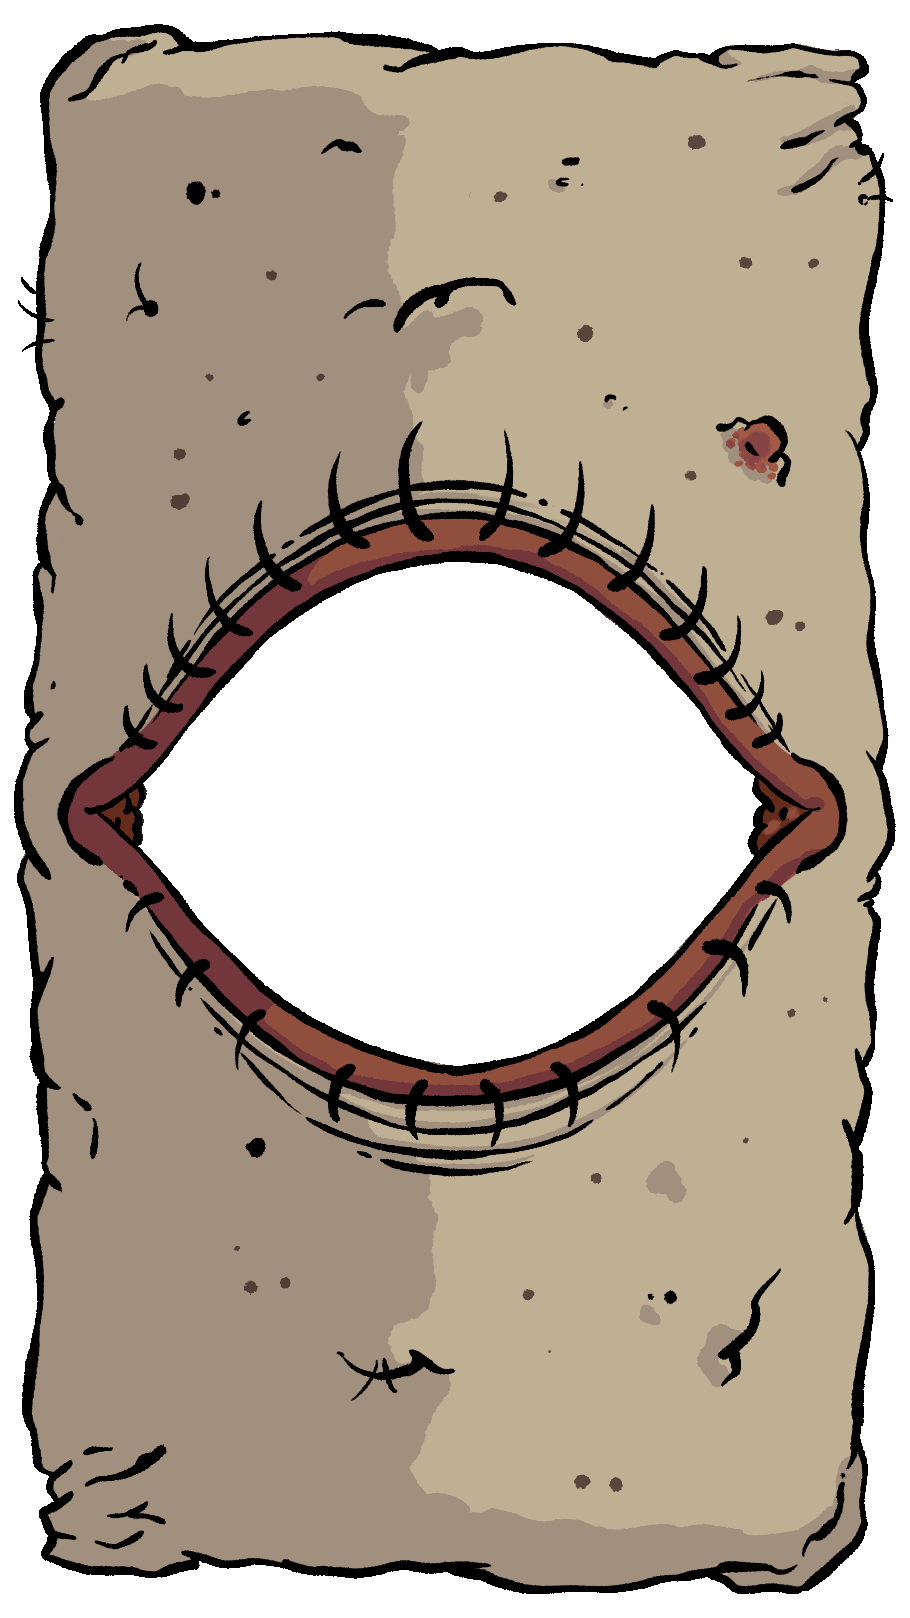
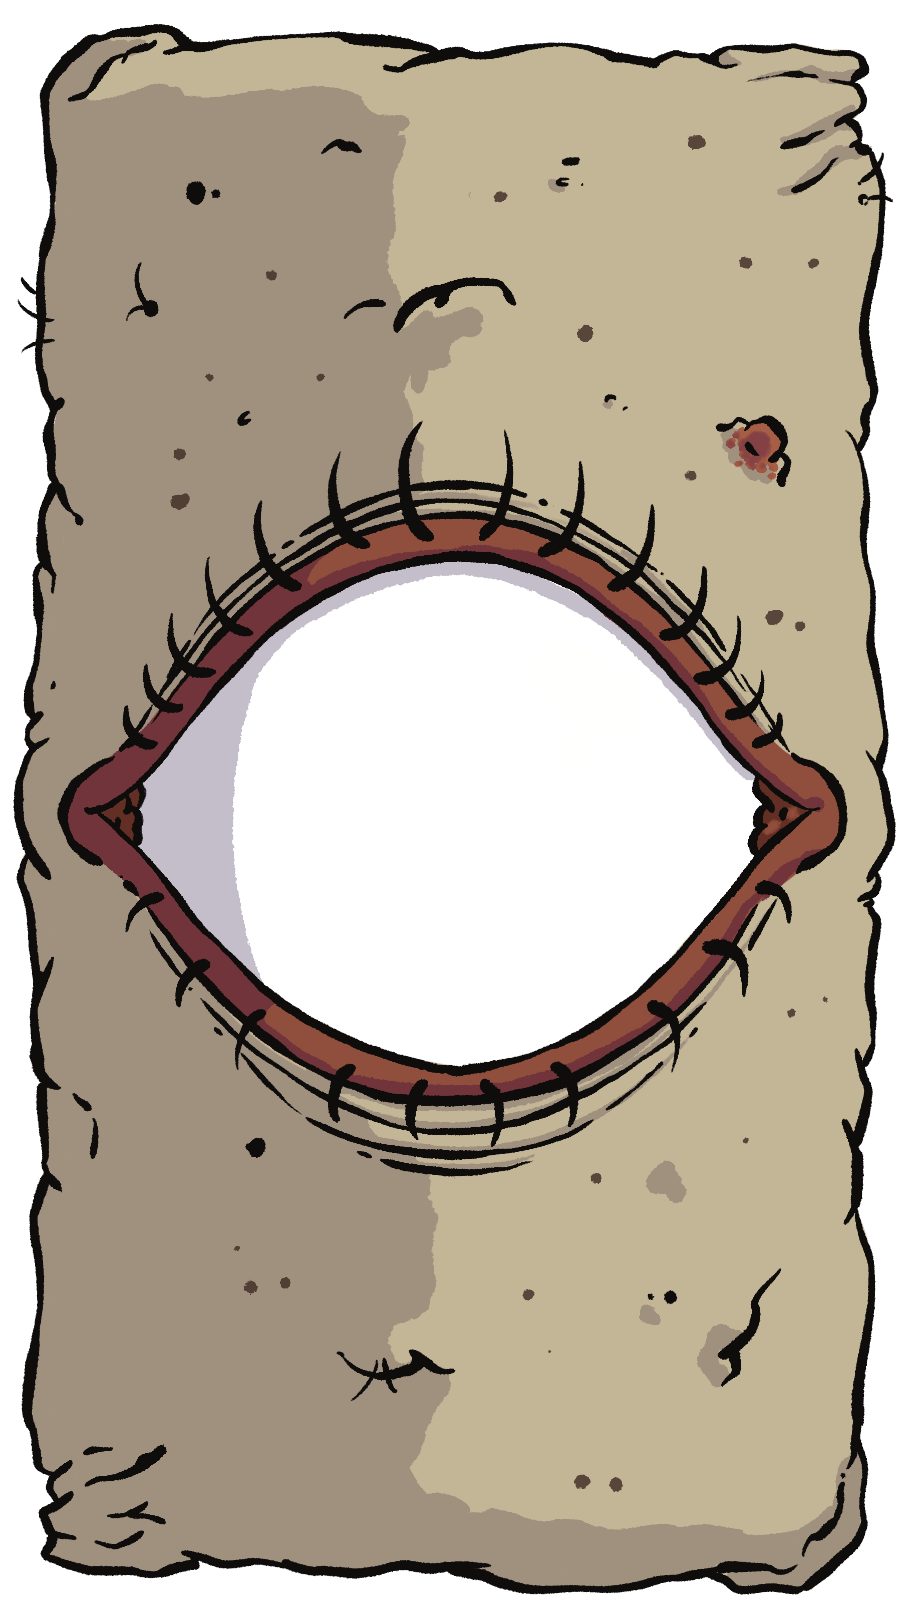
Add files via upload

diff --git a/index.html b/index.html
@@ -25,7 +25,7 @@
   }
   body{
     display:flex; align-items:center; justify-content:center;
-    min-height:100vh;
+    min-height:100vh; overflow:hidden;
   }
 
   .app{
@@ -42,7 +42,7 @@
   .reset-btn:hover{ opacity:1; }
   .reset-btn span{
     font-family: 'Monthoers', Georgia, serif;
-    font-size: 1.15rem;
+    font-size: 1.725rem;
     color: #EAE1C8;
   }
 
@@ -108,17 +108,15 @@
     line-height:1.35;
   }
 
-  .grid{
-    display:grid;
-    grid-template-columns: repeat(6, 1fr);
-    gap: 2cqw 1.8cqw;
-    width: 48%;
+  .cloud{
+    position:absolute; inset:0;
   }
-  .grid span{
+  .cloud span{
+    position:absolute;
     font-family: 'Monthoers', Georgia, serif;
     font-weight:600;
     color: var(--charcoal);
-    font-size: 4.7cqw;
+    font-size: 3.5cqw;
     line-height:1;
     text-align:center;
   }
@@ -146,11 +144,6 @@
     white-space:nowrap;
   }
 
-  .hint{
-    font-size:.78rem; color:#EAE1C8; opacity:.35;
-    text-align:center; min-height:1.2em; max-width:20em;
-  }
-
   @media (prefers-reduced-motion: reduce){
     * { animation-duration: 0.01ms !important; transition-duration: 0.01ms !important; }
   }
@@ -174,8 +167,6 @@
       <span id="noText">NO</span>
     </button>
   </div>
-
-  <div class="hint" id="hint"></div>
 </div>
 
 <script>
@@ -190,9 +181,8 @@
   var yesText = document.getElementById('yesText');
   var noText = document.getElementById('noText');
   var resetBtn = document.getElementById('resetBtn');
-  var hint = document.getElementById('hint');
 
-  var EYE_GIF_SRC = 'assets/eye-window.gif';
+  var EYE_GIF_SRC = 'assets/eye-window.png';
   var EYE_OPEN_SRC = 'assets/eye-window-open.png';
   var EYE_CLOSED_SRC = 'assets/eye-window-closed.png';
 
@@ -201,8 +191,8 @@
   var CLOSE_DELAY = CLOSE_AT_FRAME * FRAME_MS;      // 360ms: eye is shut, safe to swap content
   var BLINK_TOTAL = FRAME_COUNT * FRAME_MS;          // 1170ms: full blink duration
 
-  var CLOSING_GIF_SRC = 'assets/eye-window-closing.gif';
-  var OPENING_GIF_SRC = 'assets/eye-window-opening.gif';
+  var CLOSING_GIF_SRC = 'assets/eye-window-closing.png';
+  var OPENING_GIF_SRC = 'assets/eye-window-opening.png';
   var CLOSING_DURATION = 5 * FRAME_MS;   // 450ms: open -> fully shut
   var OPENING_DURATION = 7 * FRAME_MS;   // 630ms: shut -> fully open
   var REVEAL_HOLD_MS = 2000;             // how long the eye stays shut before the reveal
@@ -263,7 +253,46 @@
   // ============================================================
   // rendering each screen's content (drawn while the eye is open)
   // ============================================================
-  function setHint(t){ hint.textContent = t; }
+  // Safe scatter zone, verified against the actual eye mask (not a guessed
+  // ellipse): center (50%, 50.7%), radii tuned so random points land inside
+  // the true transparent window with a safety margin from the rim, and a
+  // minimum pairwise distance (aspect-corrected, since the eye isn't square)
+  // that keeps up to 26 items from overlapping. Verified with zero placement
+  // failures across the worst-case 26-item lists before shipping this.
+  function scatterPositions(n){
+    var cx = 0.5, cy = 0.507;
+    var rx = 0.13, ry = 0.075;
+    var aspect = 1618 / 910;
+    var minDist = 0.038;
+    var pts = [];
+    for (var i = 0; i < n; i++){
+      var placed = false;
+      for (var attempt = 0; attempt < 500; attempt++){
+        var angle = Math.random() * Math.PI * 2;
+        var r = Math.sqrt(Math.random());
+        var x = cx + r * Math.cos(angle) * rx;
+        var y = cy + r * Math.sin(angle) * ry;
+        var ok = true;
+        for (var j = 0; j < pts.length; j++){
+          var dx = x - pts[j].x;
+          var dy = (y - pts[j].y) * aspect;
+          if (Math.sqrt(dx*dx + dy*dy) < minDist){ ok = false; break; }
+        }
+        if (ok){ pts.push({x:x, y:y}); placed = true; break; }
+      }
+      if (!placed) pts.push({x: cx, y: cy});
+    }
+    return pts;
+  }
+
+  function shuffledCopy(arr){
+    var copy = arr.slice();
+    for (var i = copy.length - 1; i > 0; i--){
+      var j = Math.floor(Math.random() * (i + 1));
+      var tmp = copy[i]; copy[i] = copy[j]; copy[j] = tmp;
+    }
+    return copy;
+  }
 
   function renderContent(){
     eyeContent.innerHTML = '';
@@ -273,7 +302,6 @@
       beginEl.className = 'begin-text';
       beginEl.textContent = 'BEGIN';
       eyeContent.appendChild(beginEl);
-      setHint('Tap the eye to begin.');
       return;
     }
 
@@ -282,36 +310,36 @@
       instr.className = 'lede-text';
       instr.innerHTML = 'Think of a number<br>between 1 and 52.<br>Then tap the eye.';
       eyeContent.appendChild(instr);
-      setHint('Tap the eye when ready.');
       return;
     }
 
     if (state.idx === 2){
       var instr2 = document.createElement('div');
       instr2.className = 'lede-text';
-      instr2.innerHTML = 'Tap yes if you see<br>your number.<br>Tap no if you don\u2019t.';
+      instr2.innerHTML = 'Tap yes if you see<br>your number.<br>Tap no if you don\u2019t.<br>Then tap the eye.';
       eyeContent.appendChild(instr2);
-      setHint('Tap the eye when ready.');
       return;
     }
 
     if (state.idx >= 3 && state.idx <= 8){
       var step = listStep(state.idx);
       var bit = bitForPos(step);
-      var grid = document.createElement('div');
-      grid.className = 'grid';
-      NUMBER_BIT_LISTS[bit].forEach(function(n){
+      var cloud = document.createElement('div');
+      cloud.className = 'cloud';
+      var positions = scatterPositions(NUMBER_BIT_LISTS[bit].length);
+      shuffledCopy(NUMBER_BIT_LISTS[bit]).forEach(function(n, i){
         var s = document.createElement('span');
         s.textContent = n;
-        grid.appendChild(s);
+        s.style.left = (positions[i].x * 100) + '%';
+        s.style.top = (positions[i].y * 100) + '%';
+        s.style.transform = 'translate(-50%, -50%) rotate(' + (Math.random()*20-10) + 'deg)';
+        cloud.appendChild(s);
       });
-      eyeContent.appendChild(grid);
-      setHint(state.answered[step] ? 'Tap the eye to continue.' : 'Tap their answer, then tap the eye.');
+      eyeContent.appendChild(cloud);
       return;
     }
 
     // idx 9: reveal handled separately by playReveal(), leave blank here
-    setHint('');
   }
 
   // ============================================================
@@ -423,7 +451,6 @@
       eyeTop.src = EYE_CLOSED_SRC;
       state.idx += 1; // -> 9, the reveal
       eyeContent.innerHTML = '';
-      setHint('');
     }, CLOSING_DURATION);
 
     setTimeout(function(){
